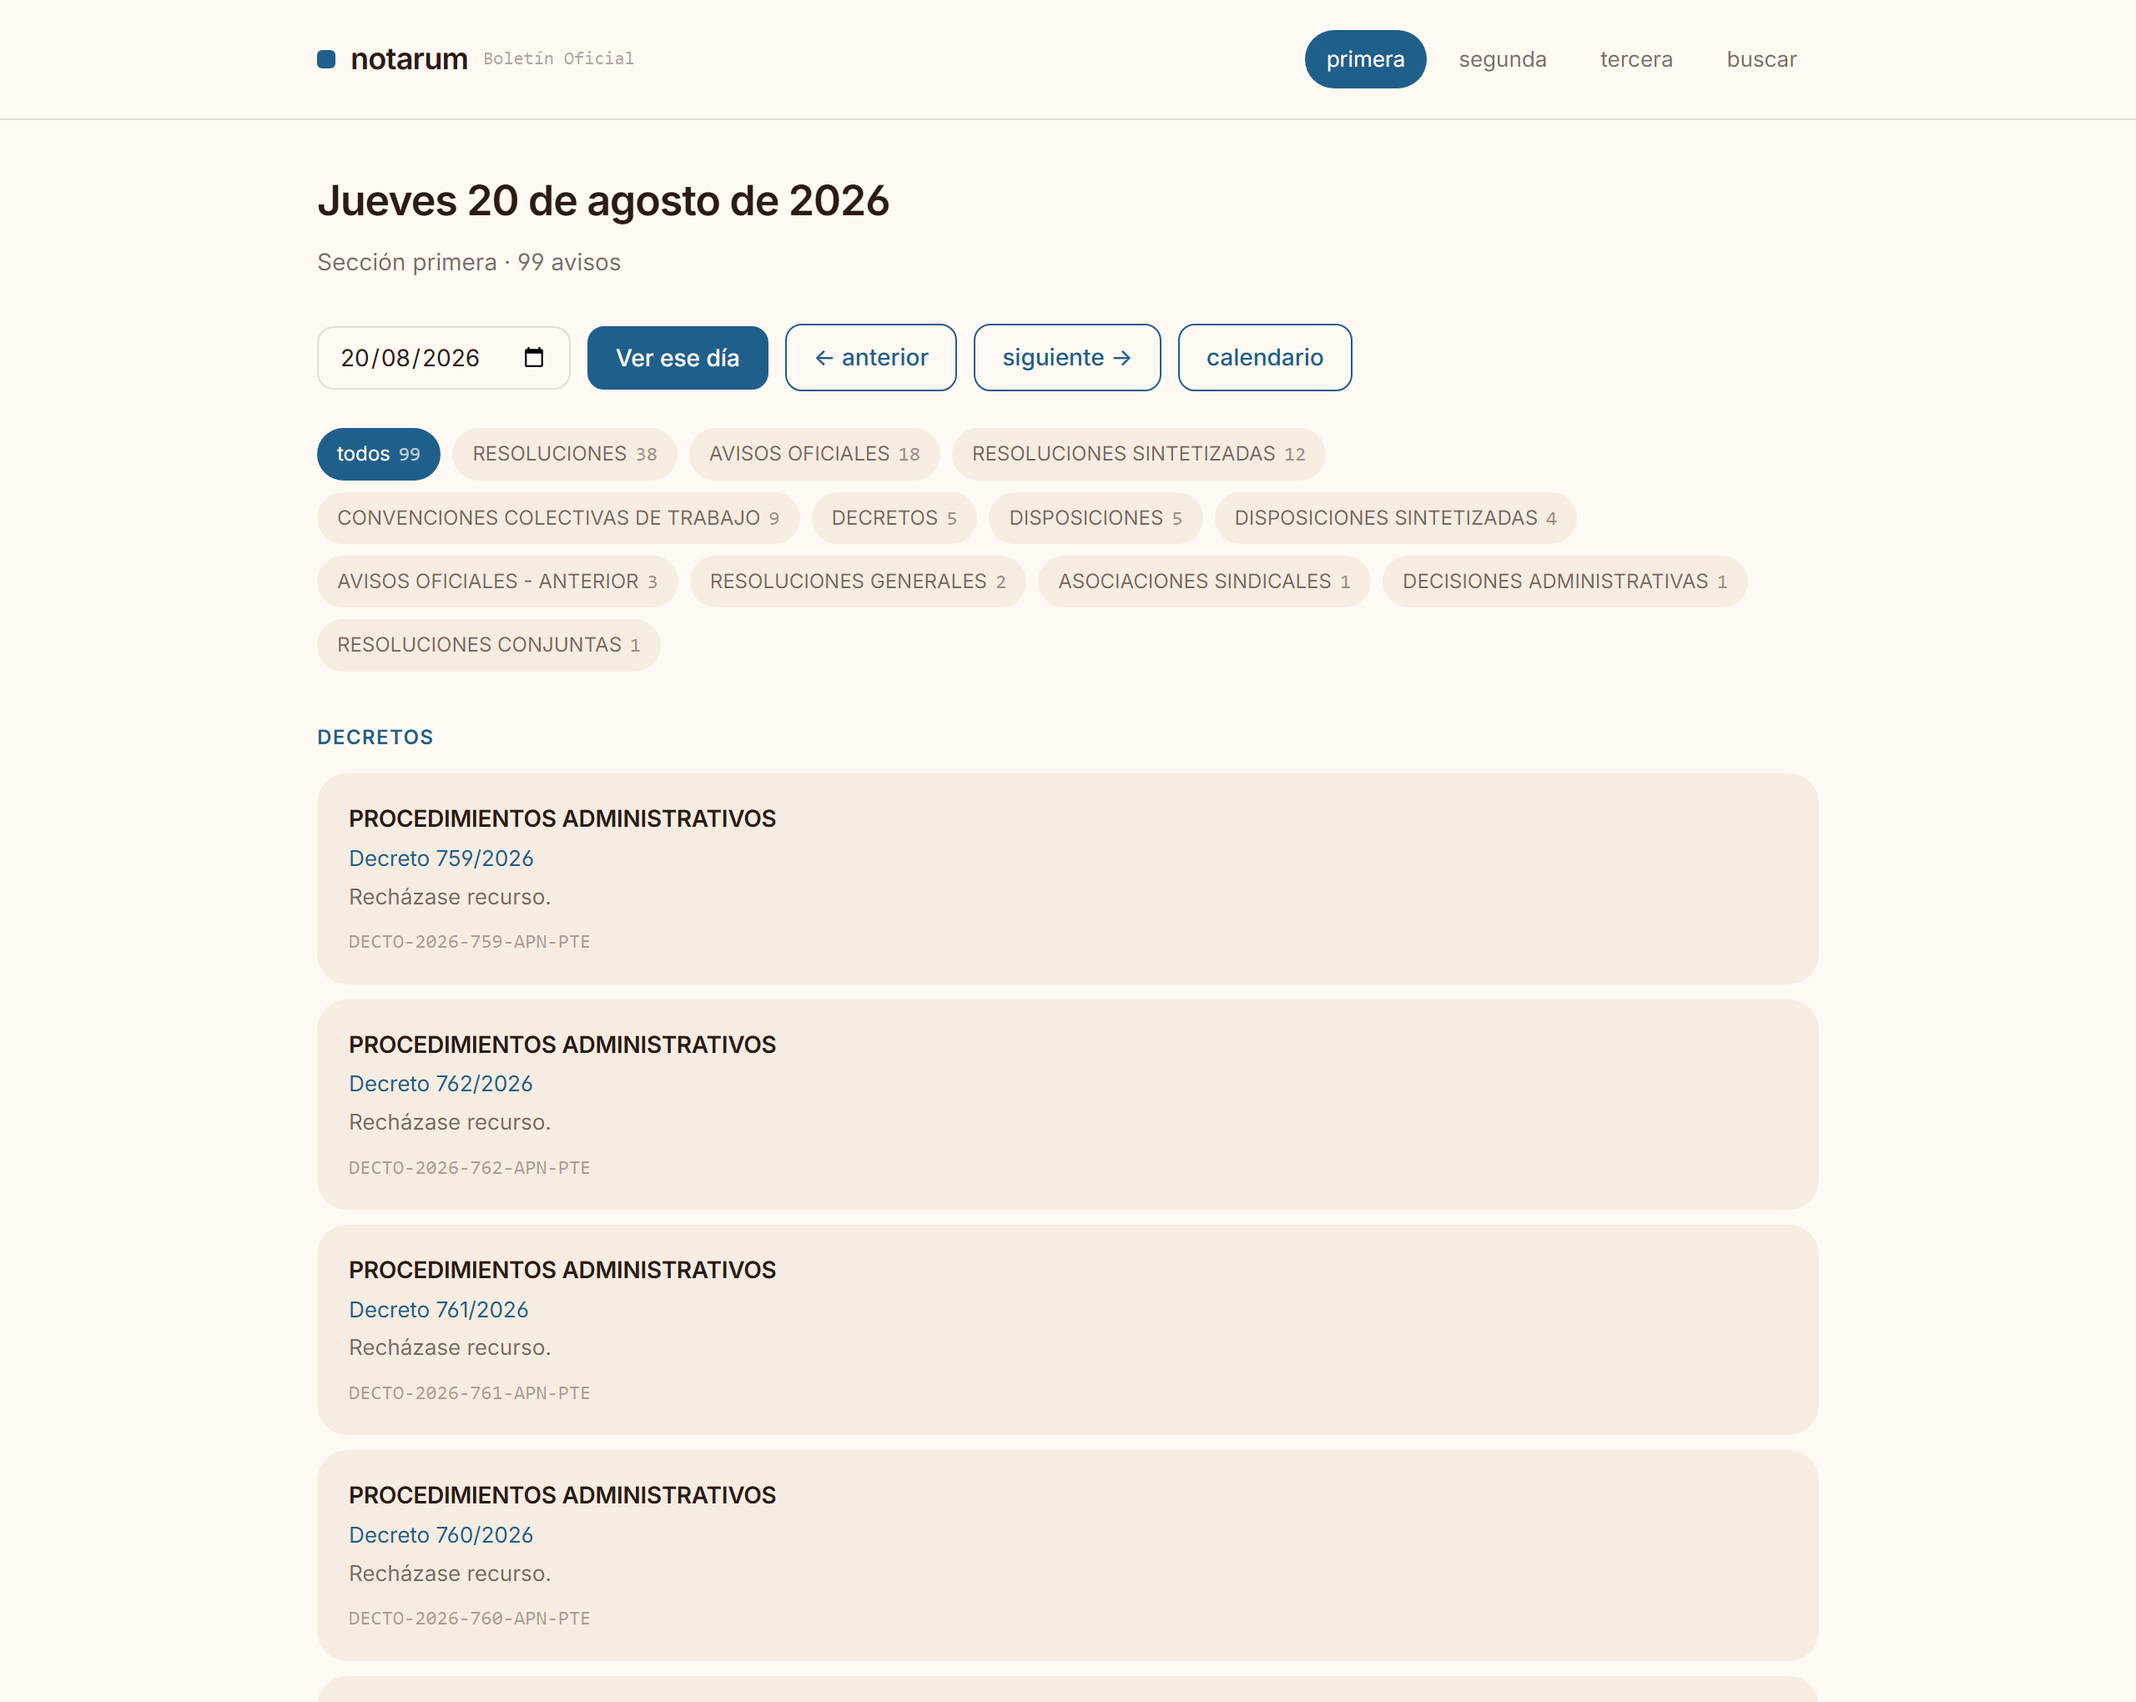
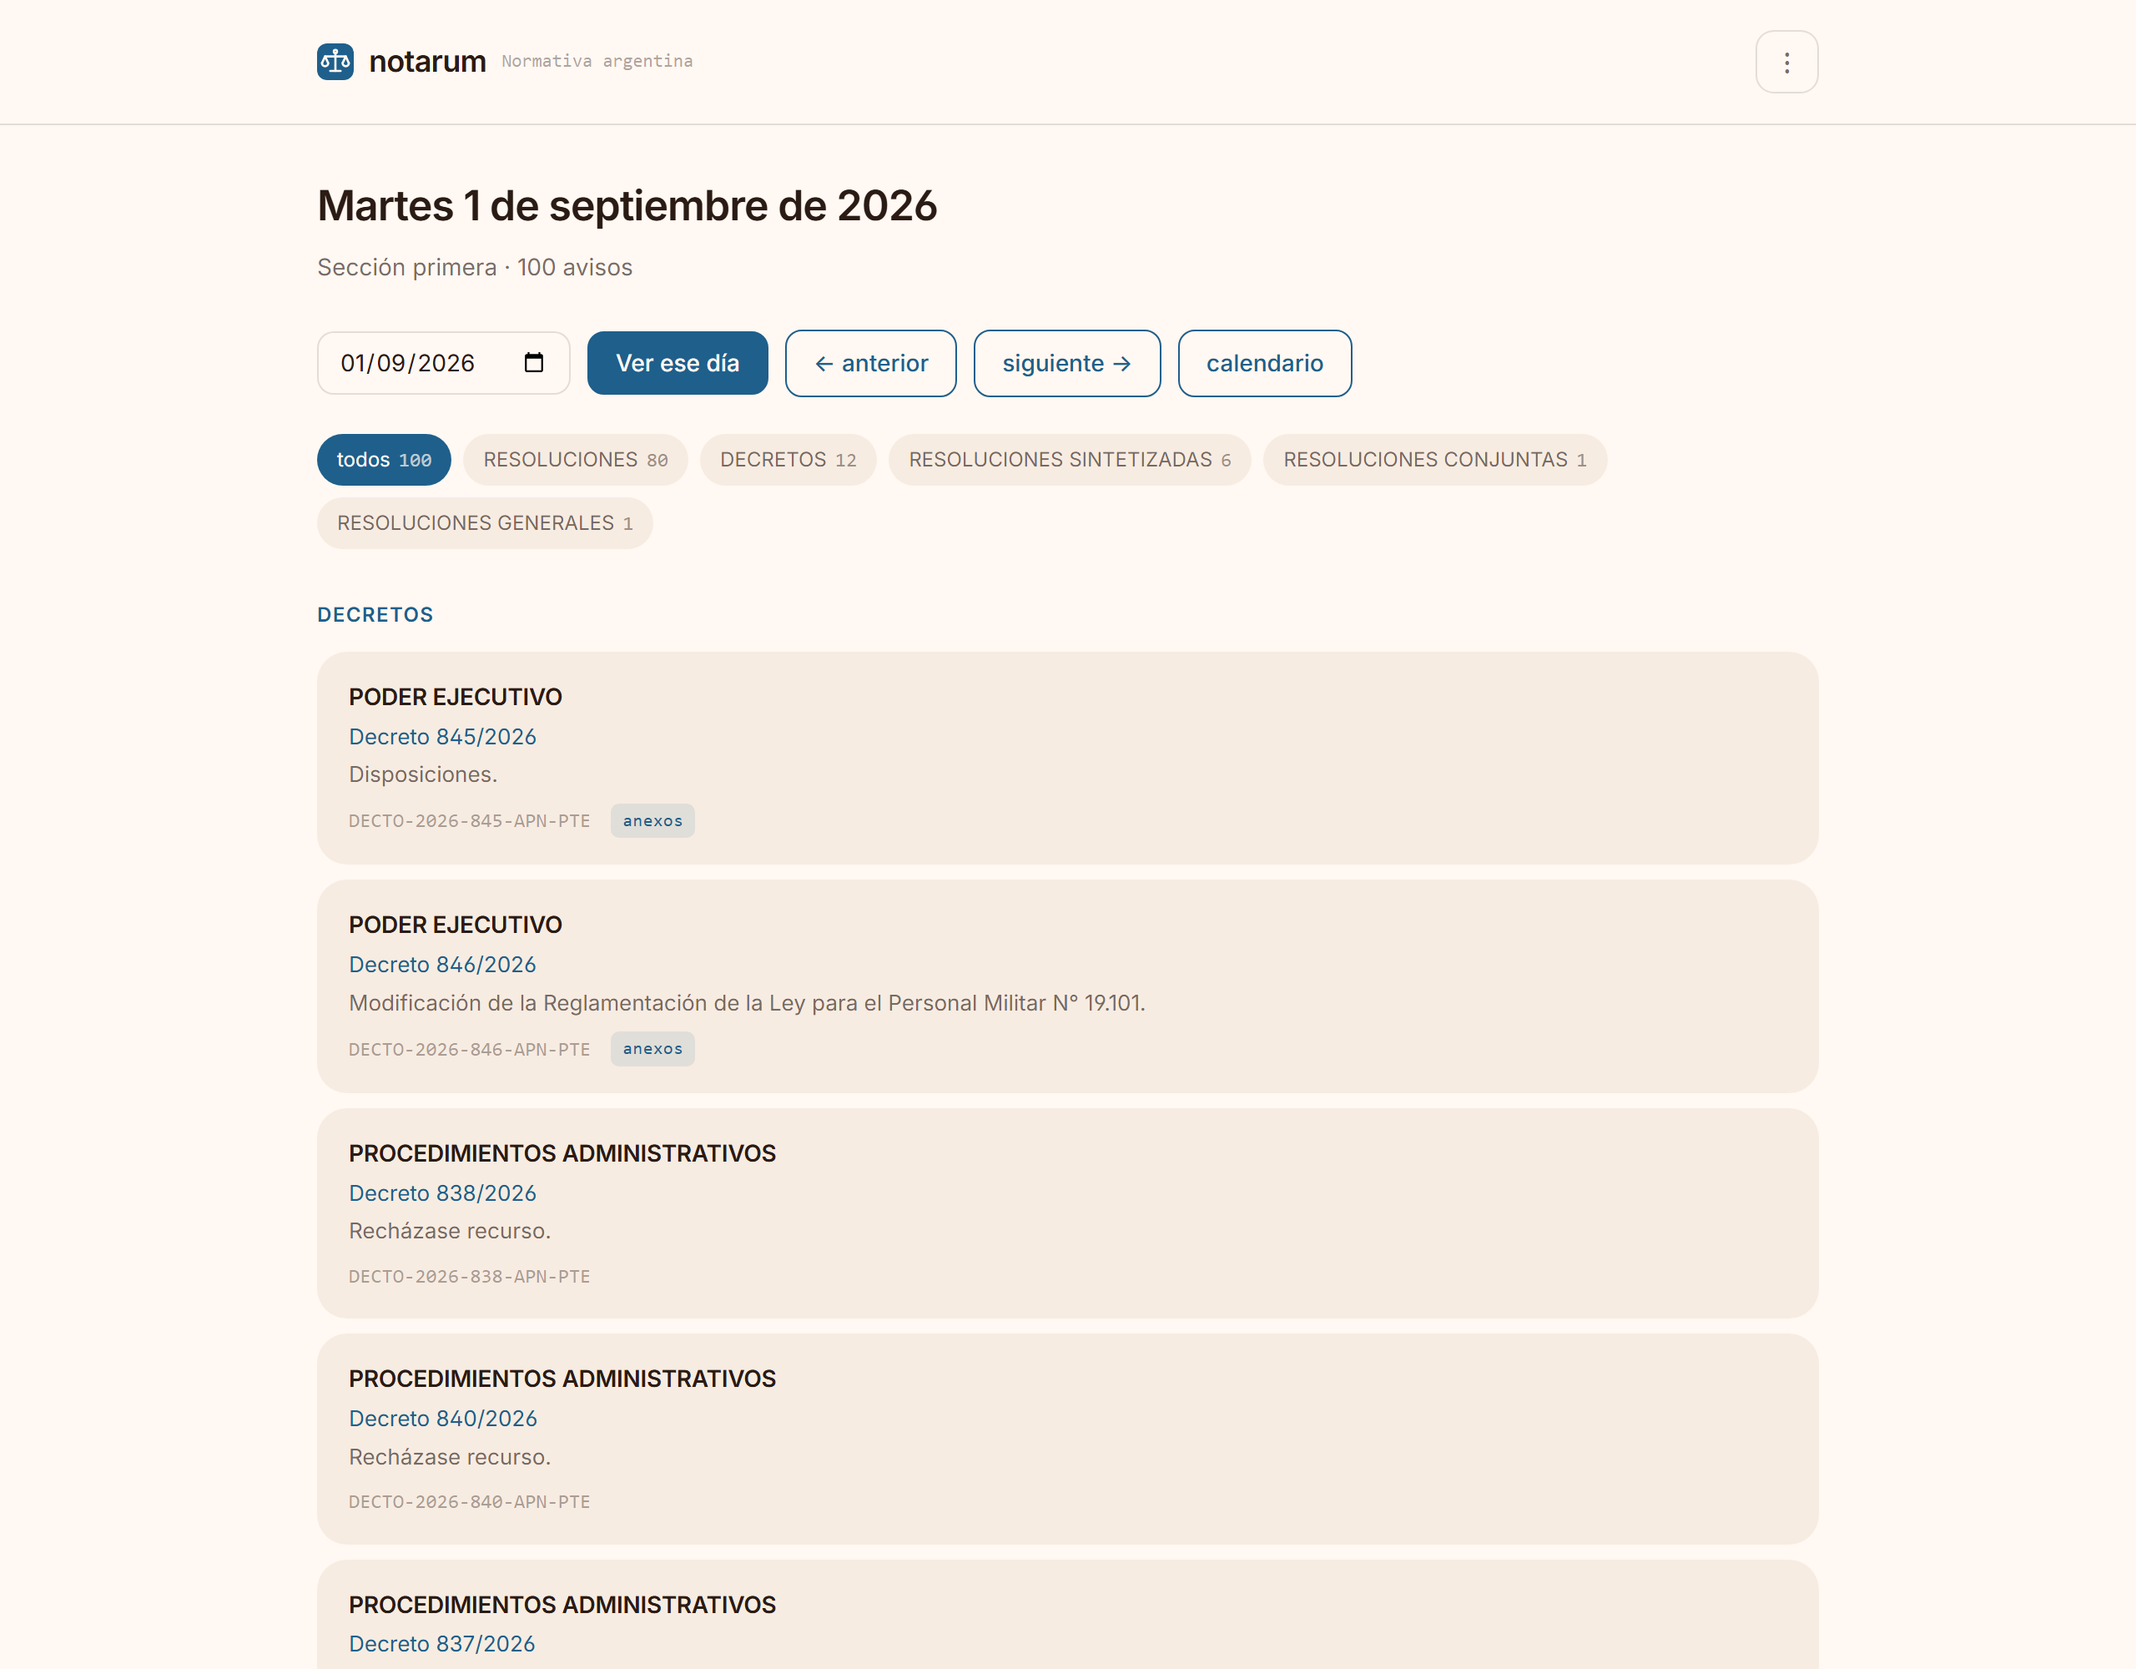
El README y las capturas, al día
El README quedó describiendo la mitad de lo que hace: no estaban las
relaciones entre normas, las alertas, los feeds, las novedades desde una fecha,
la búsqueda en las tres fuentes, el armador de consultas, la bajada semanal del
Boletín, la escritura por lotes ni la migración entre motores. Ahora están, con
los números medidos en vez de adjetivos.

Y las seis capturas eran de antes de todo eso. Se regeneraron contra una
instancia de verdad, con ediciones reales bajadas del sitio, así que muestran
lo que hoy se ve: la marca que ya no dice sólo «Boletín Oficial», los campos
con la misma cara y la documentación con las tres fuentes arriba de todo y el
botón para armar cada consulta.

diff --git a/README.md b/README.md
@@ -79,6 +79,10 @@ API y de la misma lista de herramientas que recibe el modelo. Si mañana se
 agrega una ruta o una herramienta, aparece sola — y hay tests que fallan si
 alguna queda sin documentar.
 
+Arriba de todo dice **qué hay en cada fuente**, que es lo que hace falta para
+saber a cuál preguntarle. Y cada ruta trae un formulario: se ponen los valores
+y salen la dirección, la línea de `curl` y el nodo de n8n, hechos.
+
 ### La búsqueda
 
 ![Búsqueda de "energia" mostrando resultados del índice local](docs/img/buscar.png)
@@ -153,6 +157,11 @@ curl https://tu-instancia/v1/ediciones/primera/2026-09-01
 | `GET /v1/nacional?texto=&tipo=&desde=&hasta=&con_texto=` | las 428 mil normas nacionales de InfoLEG |
 | `GET /v1/nacional/tipos` | los tipos de norma nacional |
 | `GET /v1/nacional/{id}` | una norma nacional, con su ficha y su texto |
+| `GET /v1/nacional/{id}/modificada-por` | qué normas modificaron a ésta |
+| `GET /v1/nacional/{id}/modifica-a` | a qué normas modificó ésta |
+| `GET /v1/nacional/novedades?desde=` | qué apareció en el catálogo desde una fecha |
+| `GET /v1/provincial/novedades?desde=` | lo mismo, para la provincial |
+| `GET /v1/todo?texto=` | la misma búsqueda en las tres fuentes, marcada por origen |
 | `GET /v1/salud` | estado del servicio, del sitio y de la caché |
 | `GET /v1/openapi.json` | el contrato, validado por un test |
 
@@ -170,11 +179,13 @@ Cada error dice de quién es la culpa, para que sepas a quién mirar:
 
 ### 3. El MCP, en `/mcp` y por entrada estándar
 
-Para que un modelo consulte el Boletín como una herramienta más. Doce:
+Para que un modelo consulte las tres fuentes como una herramienta más:
 `edicion`, `aviso`, `buscar`, `calendario`, `rubros` y `estado` para el
-Boletín; `nacional_buscar`, `nacional_norma` y `nacional_tipos` para la
-normativa nacional de InfoLEG; y `provincial_buscar`, `provincial_norma` y
-`provincial_tipos` para las leyes de las provincias.
+Boletín; `nacional_buscar`, `nacional_norma`, `nacional_relaciones` y
+`nacional_tipos` para la normativa nacional; `provincial_buscar`,
+`provincial_norma` y `provincial_tipos` para las provincias; y dos que cruzan
+todo: `buscar_todo`, que pregunta en las tres a la vez, y `novedades`, que
+contesta qué apareció desde una fecha.
 
 ```json
 {
@@ -191,7 +202,8 @@ Están pensadas para un modelo y no para una persona, y se nota en las
 decisiones: una edición se recorta a 40 avisos **y lo dice**, en vez de llenar
 la ventana de contexto en silencio; un feriado se explica en palabras en vez de
 devolver un error; y el aviso entrega el texto plano sin el HTML, que sólo
-gasta tokens.
+gasta tokens. Y cada una explica qué falta en vez de devolver una lista vacía:
+un modelo que recibe una lista vacía concluye que no hay nada y sigue de largo.
 
 ---
 
@@ -279,6 +291,24 @@ Deploy, y entrá a la raíz. La guía completa, con las dos formas de resolver e
 registry y el detalle de cada paso, está en
 [docs/easypanel.md](docs/easypanel.md).
 
+### Cambiar de motor sin volver a bajar todo
+
+Pasar de SQLite a Postgres no cuesta volver a bajar los catálogos:
+
+```bash
+notarum migrar --origen sqlite --db /datos/notarum.db
+```
+
+Se corre con la configuración del motor nuevo puesta y el viejo como origen. Lo
+vencido no se arrastra, y el índice de búsqueda se rearma desde las ediciones
+copiadas en vez de traducirse: traducir un índice entre dos motores es la clase
+de cosa que sale mal en silencio.
+
+Las escrituras masivas van por lotes. Sincronizar InfoLEG son 428 mil
+escrituras y las relaciones suman unas 200 mil más: de a una, con SQLite es una
+transacción y su espera al disco por norma, y con Postgres un viaje por la red
+cada vez. Medido contra el catálogo real, con lotes son unos seis minutos.
+
 ### Configuración
 
 | Variable | Por defecto | Qué hace |
@@ -296,6 +326,17 @@ registry y el detalle de cada paso, está en
 | `NOTARUM_MCP_TOKEN` | vacío | si se define, `/mcp` exige `Bearer` |
 | `NOTARUM_SIN_MCP` | vacío | apaga `/mcp` |
 | `NOTARUM_SIN_WEB` | vacío | apaga el lector y deja sólo la API |
+| `NOTARUM_BUSCADOR_INFOLEG` | vacío | enciende la búsqueda nacional; cuesta unos 480 MB |
+| `NOTARUM_ACTUALIZAR_A_LAS` | `05:00` | cuándo se actualizan los catálogos |
+| `NOTARUM_BOLETIN_A_LAS` | `04:00` | cuándo baja la semana del Boletín, los sábados |
+| `NOTARUM_ZONA` | `America/Argentina/Buenos_Aires` | dónde se cuentan esas horas |
+| `NOTARUM_SIN_ACTUALIZACION_AUTOMATICA` | vacío | apaga las actualizaciones solas |
+| `NOTARUM_MEMORIA_MAX` | lo del contenedor | un techo como `1GB` |
+| `NOTARUM_WEBHOOK_PERMITE_PRIVADAS` | vacío | deja que las alertas avisen a direcciones internas |
+
+Las variables de sí o no entienden `1/0`, `si/no`, `true/false` y `on/off`.
+Cualquier valor no vacío contando como sí hacía que `NOTARUM_SIN_MCP=0` apagara
+el MCP: lo contrario exacto de lo que quiso escribir quien lo escribió.
 
 ### Quién entra, y cuánto puede pedir
 
@@ -350,9 +391,21 @@ clave, se genera una y se imprime en el log al arrancar —una sola vez—. Y si
 alguna vez te quedás afuera, ponés otra en el entorno y reiniciás: se aplica
 sola.
 
-Los trabajos de poner en marcha: Son trabajos de minutos, así que corren en segundo
-plano y la pantalla muestra cómo van; se puede cerrar la página y volver
-después.
+El panel dice además **cuántas ediciones hay de cada sección**, con la primera
+y la última guardadas. La cuenta total de entradas no distinguía: una instancia
+con diez años de la primera y nada de la tercera se veía igual que una
+completa.
+
+Los trabajos son de minutos —o de horas, con el texto de cada aviso— así que
+corren en segundo plano y la pantalla muestra cómo van; se puede cerrar la
+página y volver después.
+
+**Cada cosa se actualiza sola a su horario.** Los catálogos son minutos y van
+todos los días a las cinco. Bajar el texto de una semana entera del Boletín son
+horas, así que va los sábados a las cuatro, con la máquina tranquila: las tres
+secciones, de lunes a viernes de la última semana completa. Un feriado sin
+edición se cuenta aparte de los días que fallaron de verdad, y una sección que
+falla no se lleva a las otras dos.
 
 Es de quien administra: hace falta una cuenta con rol `admin`. Los mismos
 trabajos siguen estando por consola (`notarum rellenar`, `notarum infoleg`,
@@ -391,6 +444,22 @@ guardarla, se guarda cifrada con AES-GCM y nunca se muestra de vuelta —sólo
 los primeros y los últimos caracteres, para reconocer cuál está cargada—. Se
 puede sacar cuando se quiera.
 
+**El modelo se elige entre los que ofrece esa clave**, con lo que cobra cada
+uno por millón de tokens al lado. La lista se le pide a OpenRouter y no está
+escrita acá: un nombre de modelo en una constante envejece solo, y ya pasó —el
+que estaba puesto no existía en el catálogo, así que ninguna generación
+funcionaba—. Hay un test que lo comprueba contra el catálogo real todos los
+días.
+
+También se manda sólo lo que cada modelo acepta: 82 de los 426 del catálogo
+rechazan `temperature`, toda la familia GPT-5 entre ellos, y mandárselo igual
+rompía la generación antes de empezar.
+
+La generación **no espera al proveedor**: contesta en el acto y sigue por su
+cuenta. Un pedido HTTP colgado de un tercero termina en la página de error del
+proxy, que no explica nada; así, un error que notarum puede explicar lo muestra
+notarum.
+
 El modelo no ejecuta nada: escribe algo para copiar y pegar, y se ve antes de
 correrlo.
 
@@ -419,6 +488,90 @@ en vez de prometer una copia que casi siempre estaría vacía.
 El catálogo se sirve desde memoria: 77 MB y 340 ms de carga, medidos con la
 base entera. Los paga sólo quien lo sincroniza — una instancia que no use la
 parte provincial no carga nada. Se apaga del todo con `NOTARUM_SIN_SAIJ`.
+
+### Qué modificó a qué
+
+El catálogo dice «modificada por 7» y no dice cuáles. Es un dato que no lleva a
+ningún lado: saber que una ley cambió sin saber qué la cambió obliga a ir a
+buscarlo a otro lado igual.
+
+El detalle está en dos bases complementarias del mismo dataset, y se bajan con
+la misma sincronización.
+
+```bash
+curl https://tu-instancia/v1/nacional/24240/modificada-por
+```
+
+Cuál de las dos normas describen las columnas de esas bases no está
+documentado, y los nombres de los archivos engañan. Se midió: en la base de
+«normas modificadas», 82 de 90 identificadores repetidos traen datos distintos,
+así que las columnas describen a la modificatoria; en la de «modificatorias»,
+192 de 192. Cada archivo da la otra punta de la relación.
+
+El reparto es extremo: el promedio son 3,7 modificatorias por norma, pero la
+ley 14250 —convenios colectivos— tiene **42.427**, porque cada convenio
+homologado figura como una. Las listas se acotan a las 200 más nuevas y siempre
+se muestra el total de verdad.
+
+### Alertas, y feeds
+
+Una búsqueda guardada que corre después de cada actualización y avisa **sólo lo
+nuevo**. Se crea desde `/cuenta`: dónde mirar, qué esperar, y a dónde avisar
+—un webhook de n8n, un feed Atom, o nada y se ve en la cuenta—.
+
+Dos decisiones definen si sirve o no:
+
+- **Sólo lo nuevo.** Una alerta que repite todos los días lo mismo se ignora a
+  la semana. Cada una recuerda qué ya avisó, y lo que deja de coincidir se
+  olvida: si vuelve a aparecer, volver a avisarlo es lo correcto.
+- **La primera pasada no avisa nada.** Estrenar una alerta sobre un tema viejo
+  mandaría de golpe todo lo que existe desde 1993, que es la forma más rápida
+  de que alguien la borre. Al crearla se prueba en el acto y dice con cuánto
+  coincide hoy.
+
+La dirección del webhook la pone quien crea la alerta y notarum es el que sale
+a buscarla, lo que lo convierte en un mensajero de pedidos ajenos. Se rechazan
+las direcciones internas —loopback, redes privadas, link-local y el rango de
+metadatos de las nubes—, se resuelve el nombre antes de decidir, y no se siguen
+redirecciones.
+
+El feed lleva su clave en la dirección, porque un lector de feeds no manda
+cabeceras. Es una concesión, así que no es el token de la cuenta: abre esa
+alerta y nada más, y se da de baja sola.
+
+### Qué apareció desde una fecha
+
+Un programa que consulta todos los días no quiere el catálogo entero: quiere lo
+que cambió.
+
+```bash
+curl 'https://tu-instancia/v1/nacional/novedades?desde=2026-09-01'
+```
+
+«Nuevo» quiere decir **que notarum no lo había visto**, no que la norma sea
+reciente. Los portales agregan normas viejas todo el tiempo, y una ley de 1998
+que aparece hoy es una novedad para quien sigue el catálogo; filtrar por la
+fecha de la norma se las perdería sin avisar.
+
+La respuesta dice además si el registro alcanza para contestar lo que se
+preguntó. Se guardan 120 días: preguntar por antes de eso no se puede
+responder, y contestar «no pasó nada» sería un agujero que no se nota nunca.
+
+### La consulta, armada
+
+Cada ruta de `/docs` trae un formulario con sus campos de verdad. Se ponen los
+valores y salen las tres formas hechas: la dirección, la línea de `curl` y un
+**nodo HTTP Request de n8n** listo para pegar en el lienzo.
+
+Lo arma notarum con su propio contrato, no un modelo: sale siempre válido, no
+cuesta nada y no necesita la clave de ningún proveedor. Un test arma las 22
+rutas y comprueba la forma que n8n espera —el tipo del nodo, la versión, el id
+como UUID y los parámetros de consulta en su lista en vez de pegados a la URL—.
+
+El asistente sigue estando para lo que no se puede plantillar: un pedido en
+castellano que combina varias rutas. Cada persona pone su clave de OpenRouter
+desde su cuenta y elige el modelo entre los que esa clave ofrece, con lo que
+cobra cada uno al lado.
 
 ### Federar con Lockatus
 
